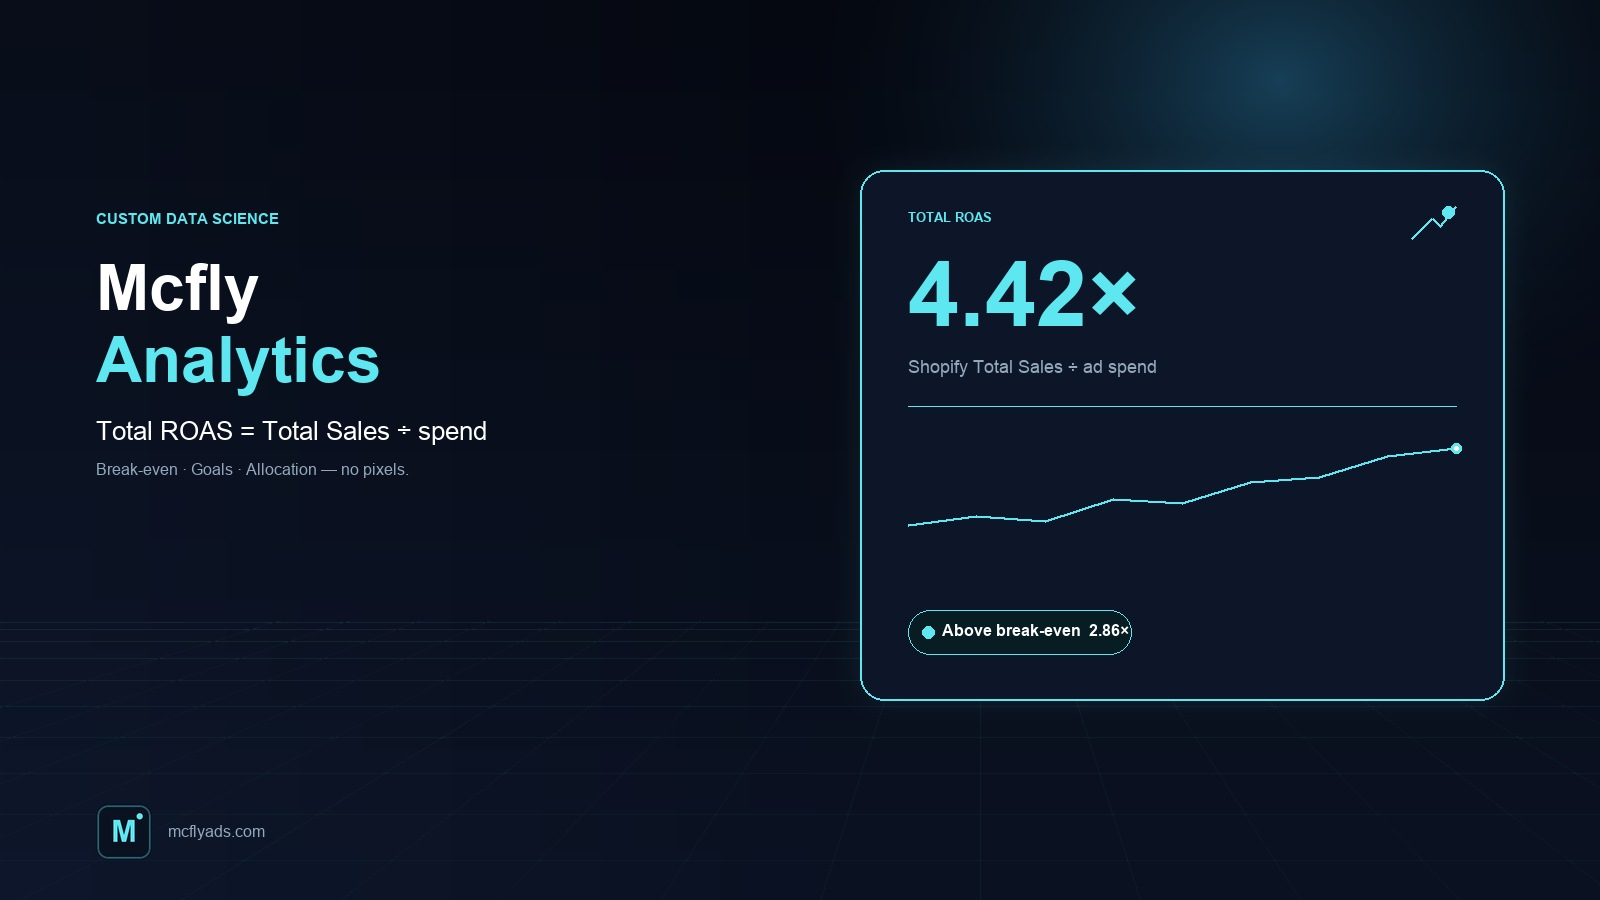
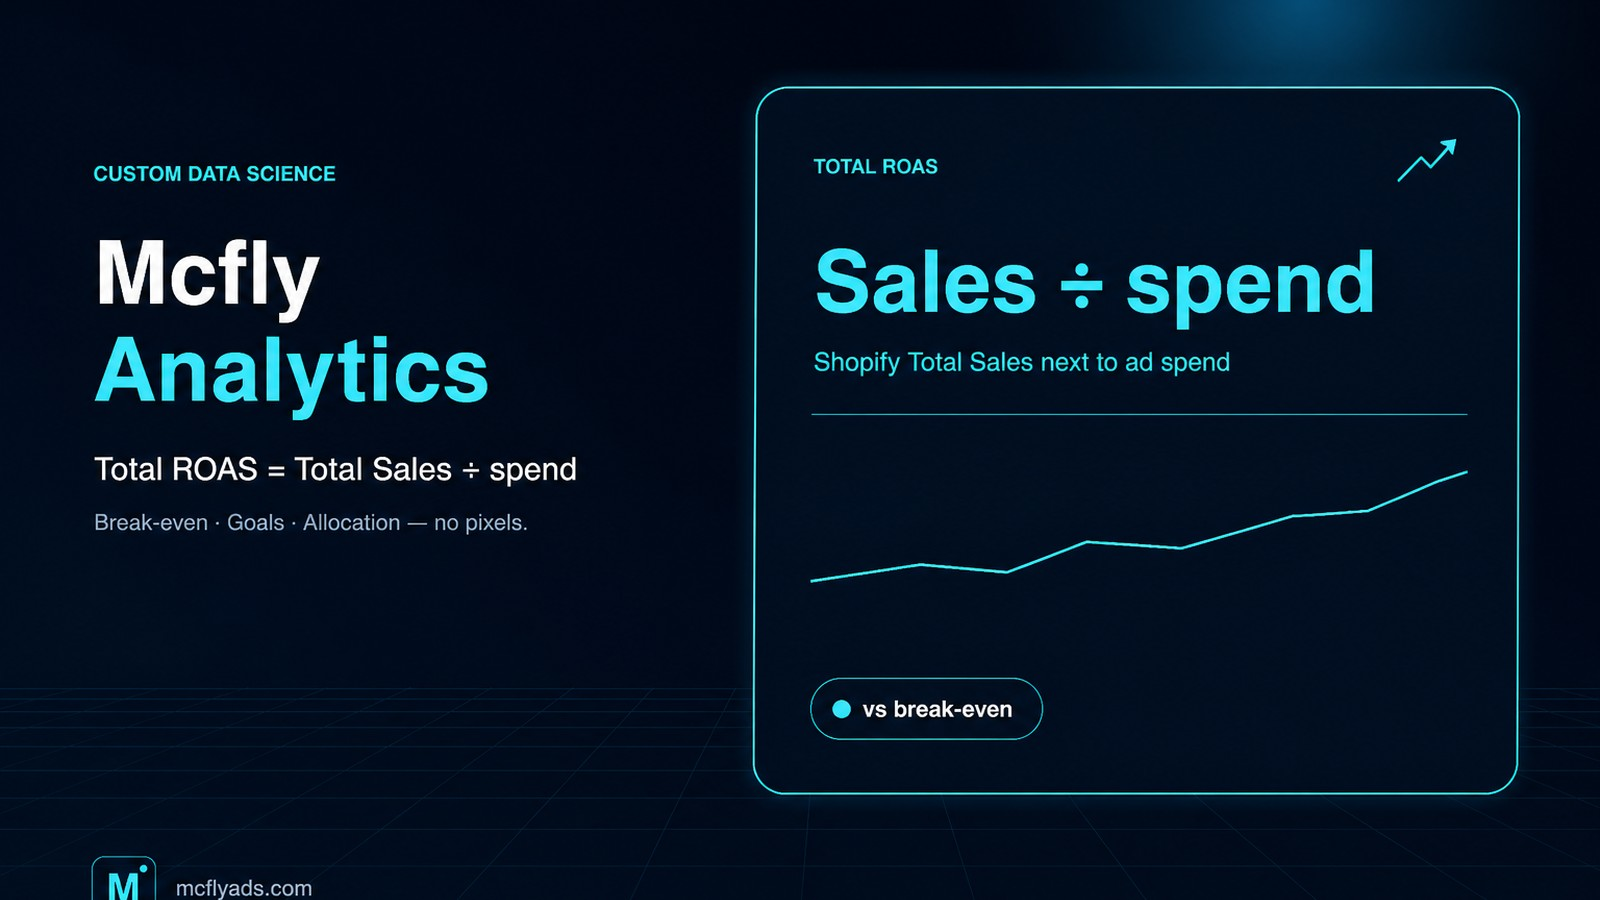
fix: strip listing pricing phrases and unsubstantiated ROAS stats
Merchant App details / features paste no longer says one plan, free trial,
or paid plan. Feature Image 1 is formula-only — no 4.42x or 2.86x.

diff --git a/app/app/lib/app-store-listing-compliance.test.ts b/app/app/lib/app-store-listing-compliance.test.ts
@@ -37,6 +37,10 @@ describe("App Store listing paste (4.2.2 / 4.2.3 / 4.3.3 / 4.3.7)", () => {
       expect(block).not.toMatch(/\/store\/mo/i);
       expect(block).not.toMatch(/\$39/);
       expect(block).not.toMatch(/Free\./);
+      expect(block).not.toMatch(/\bone plan\b/i);
+      expect(block).not.toMatch(/free trial/i);
+      expect(block).not.toMatch(/paid plan/i);
+      expect(block).not.toMatch(/7-day/);
     }
   });
 
@@ -45,6 +49,9 @@ describe("App Store listing paste (4.2.2 / 4.2.3 / 4.3.3 / 4.3.7)", () => {
     expect(features).toMatch(/billboard/i);
     expect(long).toMatch(/billboard/i);
     expect(long).not.toMatch(/paid plan unlocks every named/i);
+    expect(long).not.toMatch(/paid plan/i);
+    expect(long).not.toMatch(/\bone plan\b/i);
+    expect(long).not.toMatch(/free trial/i);
     expect(long).toMatch(/not platform ROAS/i);
     expect(long).toMatch(/not net profit/i);
     expect(features).toMatch(/spend you added/i);
@@ -88,6 +95,20 @@ describe("App Store listing paste (4.2.2 / 4.2.3 / 4.3.3 / 4.3.7)", () => {
     const shotScript = readRepo("scripts/listing-shot-04.py");
     expect(shotScript).toMatch(/4\.2\.2/);
     expect(shotScript).toMatch(/Refusing to generate a pricing screenshot/);
+  });
+
+  it("feature media forbids unsubstantiated ROAS statistics (listing AI / 4.3.3)", () => {
+    expect(captions).toMatch(/4\.42x/);
+    expect(captions).toMatch(/2\.86x/);
+    expect(captions).toMatch(/no/i);
+    expect(listing).toMatch(/feature-media-1600x900\.png/);
+    expect(listing).toMatch(/4\.42x/);
+    expect(listing).toMatch(/2\.86x/);
+    const features = pasteBlock(listing, "features");
+    expect(features).not.toMatch(/4\.42/);
+    expect(features).not.toMatch(/2\.86/);
+    expect(short).not.toMatch(/4\.42/);
+    expect(long).not.toMatch(/4\.42/);
   });
 
   it("listing checklist tells Partner not to require Online Store (4.3.1)", () => {

diff --git a/docs/APP_STORE_LISTING.md b/docs/APP_STORE_LISTING.md
@@ -145,16 +145,16 @@ Add spend from Meta, Google, TikTok, or billboards. See it next to Shopify sales
 ```text
 Shopify Analytics shows sales. It does not ingest Meta, Google, TikTok, or billboard cost, and it does not compute LTV next to that spend.
 
-Mcfly Analytics is the Admin app where you add exact spend from every platform — even billboards — and see it beside Shopify sales for the same dates. Total ROAS = Shopify Total Sales ÷ the spend you added. It is not platform ROAS, not net profit, and not which ad to scale. The paid plan unlocks customer LTV/payback and a full-year Goals board.
+Mcfly Analytics is the Admin app where you add exact spend from every platform — even billboards — and see it beside Shopify sales for the same dates. Total ROAS = Shopify Total Sales ÷ the spend you added. It is not platform ROAS, not net profit, and not which ad to scale. Customer LTV/payback and a full-year Goals board sit next to that same spend.
 
 WHAT YOU GET
 • Add spend: type one day (amount + date + channel, or a named extra like billboards) or upload a CSV for many days
-• Every named platform plus extras on the default plan — TikTok, Amazon, email, radio, billboards
+• Every named platform plus extras — TikTok, Amazon, email, radio, billboards
 • Total ROAS = Shopify Total Sales ÷ spend for any period (MTD / QTD / YTD / custom)
 • Break-even Total ROAS from optional profit margin
 • Spend Allocation — quarters, pie, rolling 7 / 14 / 28
-• Goals — this period vs your Total ROAS goal; full-year board on the paid plan
-• LTV / Acquisition — Cash CAC, cohort LTV, LTV:CAC on the paid plan
+• Goals — this period vs your Total ROAS goal; full-year board
+• LTV / Acquisition — Cash CAC, cohort LTV, LTV:CAC
 • Email Overview — opens your mail app with this period’s cards (mailto; Mcfly never sends mail)
 
 THE DESK
@@ -175,15 +175,13 @@ WHAT WE DO NOT SHIP
 WHO IT’S FOR
 Shopify operators who need every dollar out — including offline — next to Shopify metrics, plus LTV and goals Shopify Analytics does not combine.
 
-Plan prices are in the Pricing details section of this listing — not here. Upgrade and Manage plan run through Shopify App Pricing in Admin.
-
 Learn more: https://mcfly-analytics.fly.dev
 Privacy: https://mcfly-analytics.fly.dev/privacy · Support: https://mcfly-analytics.fly.dev/support
 App URL: https://mcfly-analytics.fly.dev
 ```
 <!-- /APP_STORE_PASTE:long -->
 
-**Why it converts:** Shopify gap in line one → billboards as proof → paid plan is LTV + Goals (not hidden channels).
+**Why it converts:** Shopify gap in line one → billboards as proof → LTV + Goals next to the same spend. Prices stay in Partner Pricing details only.
 
 ---
 
@@ -194,12 +192,12 @@ App URL: https://mcfly-analytics.fly.dev
 Add spend from every platform — even billboards — next to Shopify sales
 Total ROAS = Shopify Total Sales ÷ spend you added — not platform ROAS
 Break-even from optional profit margin · Spend Allocation
-Customer LTV and payback Shopify Analytics does not compute (paid plan)
-Full-year Goals board on the paid plan · Email Overview (mailto)
+Customer LTV and payback Shopify Analytics does not compute
+Full-year Goals board · Email Overview (mailto)
 ```
 <!-- /APP_STORE_PASTE:features -->
 
-**Why this order:** Spend in (billboards) → formula → break-even/allocation → paid LTV → paid Goals. No plan prices in this field (4.2.3).
+**Why this order:** Spend in (billboards) → formula → break-even/allocation → LTV → Goals. No plan prices, “one plan,” or “free trial” in this field (4.2.3).
 
 ---
 
@@ -217,6 +215,8 @@ Shot order + captions: [`LISTING_VISUAL_PACK.md`](./LISTING_VISUAL_PACK.md).
 | 5 | Goals | Full-year Goals board next to this period | PeriodControl + year board |
 
 **App icon:** upload `docs/listing-assets/mcfly-app-icon-1200.png` (1200×1200, **M-only** — no wordmark).
+
+**Feature Image 1 (header media):** upload `docs/listing-assets/feature-media-1600x900.png`. Formula only — **no** sample ROAS stats (`4.42x`, `Above break-even 2.86x`). Shopify listing AI treats those as unsubstantiated claims (4.3.3).
 
 ---
 

diff --git a/docs/RESUBMIT_PLAN.md b/docs/RESUBMIT_PLAN.md
@@ -90,11 +90,11 @@ If any of 1–5 fail, **then** a targeted agent fix is allowed. If they pass, do
 
 ### Phase 3 — Listing package (human; blocks Submit)
 
-Merchant-facing listing fields **must not include $39** (App Store 4.2.2 / 4.2.3). Put price only in Partner Pricing + reviewer notes.
+Merchant-facing listing fields **must not include $39**, “one plan,” or “free trial” (App Store 4.2.2 / 4.2.3). Put price only in Partner Pricing + reviewer notes.
 
-1. Paste name / tagline / short / long / 5 feature bullets from [`APP_STORE_LISTING.md`](./APP_STORE_LISTING.md).
-2. Recapture **five unique ~1600×900 Admin shots** per [`LISTING_VISUAL_PACK.md`](./LISTING_VISUAL_PACK.md). July PNGs are **not in git** and captions still say “Practice.” Do **not** upload `04-free-pro-pricing.png` or marketing-site captures.
-3. Icon: `docs/listing-assets/mcfly-app-icon-1200.png`.
+1. Paste name / tagline / short / long / 5 feature bullets from [`APP_STORE_LISTING.md`](./APP_STORE_LISTING.md) (`APP_STORE_PASTE` blocks). Re-paste if Partner still has “One plan” / “free trial” in App details.
+2. Recapture **five unique ~1600×900 Admin shots** per [`LISTING_VISUAL_PACK.md`](./LISTING_VISUAL_PACK.md). July PNGs are **not in git** and captions still say “Practice.” Do **not** upload `04-free-pro-pricing.png` or marketing-site captures. Screenshots must not show unsubstantiated stats (`4.42x`, `Above break-even 2.86x`).
+3. Icon: `docs/listing-assets/mcfly-app-icon-1200.png`. **Feature Image 1:** re-upload `docs/listing-assets/feature-media-1600x900.png` (formula only — the old header had `4.42x` / `2.86x`).
 4. Short screencast: install → Start trial (`_top`) → type one spend line → Overview sales ÷ spend.
 5. Run Partner **automated checks**. Fix failures before Submit.
 

diff --git a/docs/listing-assets/shots/CAPTIONS.md b/docs/listing-assets/shots/CAPTIONS.md
@@ -29,5 +29,5 @@ Shot paths SoT: [`LISTING_VISUAL_PACK.md`](../LISTING_VISUAL_PACK.md).
 
 - Founder pack PNGs from 2026-07-31 still show old SAMPLE chrome and CSV-first Spend. **Retake** from live Admin with **Sample data** on (`?shot=1`) so shot 3 is Add spend, shot 4 is LTV, and shot 5 is Goals.
 - Switch back to **Live data** on the review store after capture / before review.
-- Feature media (header): `../feature-media-1600x900.png` (Custom Data Science dark/cyan).
+- Feature media (header): `../feature-media-1600x900.png` (Custom Data Science dark/cyan). Formula only — **no** `4.42x` / `Above break-even 2.86x` (listing AI / 4.3.3).
 - Icon: `../mcfly-app-icon-1200.png`.

diff --git a/docs/LISTING_19_ISSUES_PASTE.md b/docs/LISTING_19_ISSUES_PASTE.md
@@ -27,7 +27,9 @@ Paste from `docs/APP_STORE_LISTING.md` → **Long description (paste)** block (s
 Paste from `docs/APP_STORE_LISTING.md` → `APP_STORE_PASTE:features` (never the old Meta-only Free bullets).
 
 ### Feature media / Screenshots
-Upload from `docs/listing-assets/shots/` **in order**:
+**Feature Image 1 (header):** re-upload `docs/listing-assets/feature-media-1600x900.png`. Formula only — do **not** keep the old file with `4.42x` / `Above break-even 2.86x` (listing AI / 4.3.3).
+
+Upload screenshots from `docs/listing-assets/shots/` **in order**:
 
 | # | File | Caption |
 | --- | --- | --- |

diff --git a/docs/LISTING_APPROVAL_OPTIMIZE.md b/docs/LISTING_APPROVAL_OPTIMIZE.md
@@ -91,7 +91,7 @@ Upload: `~/Pictures/Mcfly-Listing-Screenshots-Best3/feature-media-1600x900.png`
 (also in `docs/listing-assets/feature-media-1600x900.png`)  
 Alt text:
 ```text
-Total ROAS 4.42× vs break-even
+Total ROAS = Total Sales ÷ spend — next to break-even
 ```
 
 ### Screenshots (desktop) — re-upload if “No file chosen”
